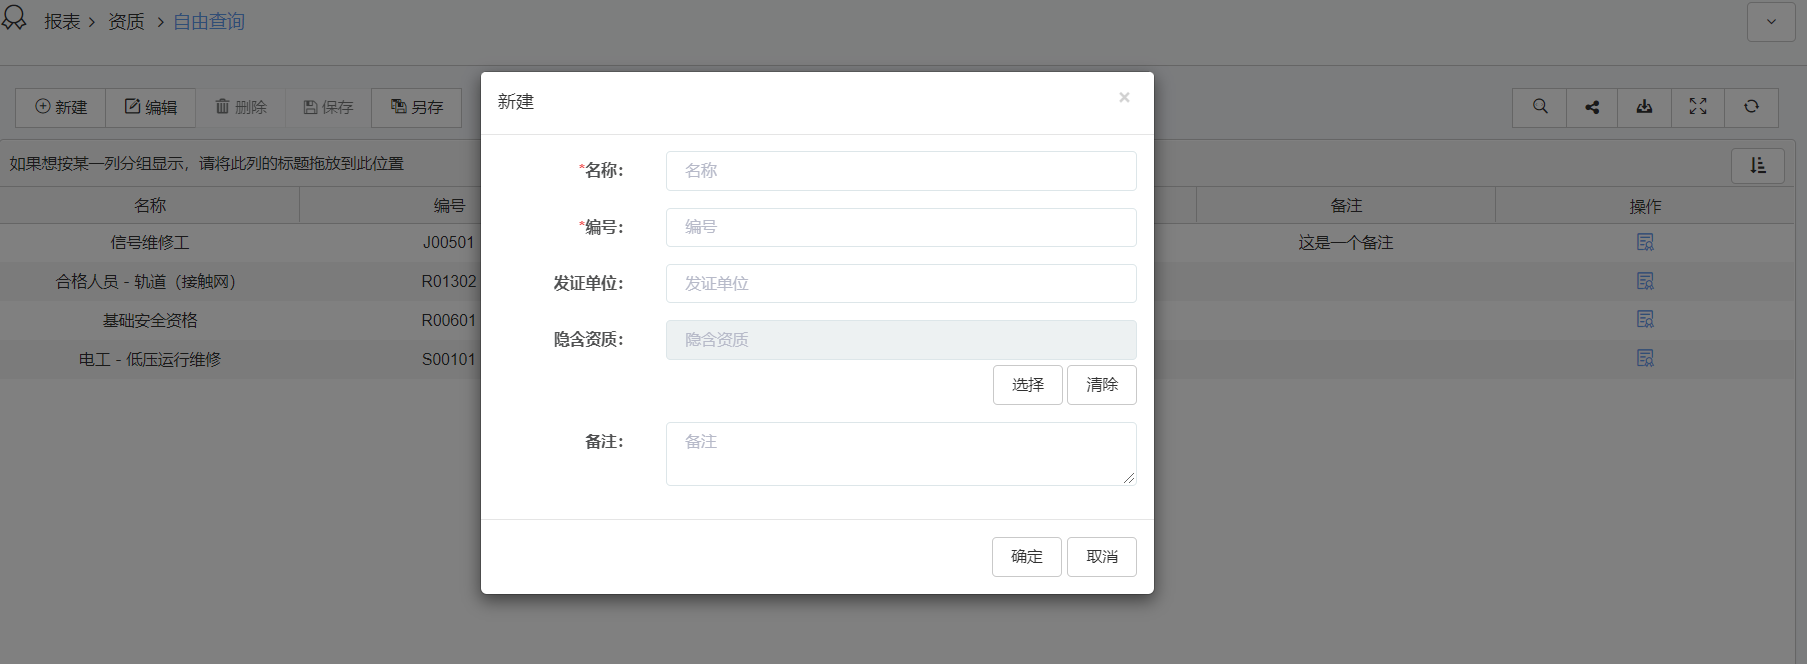
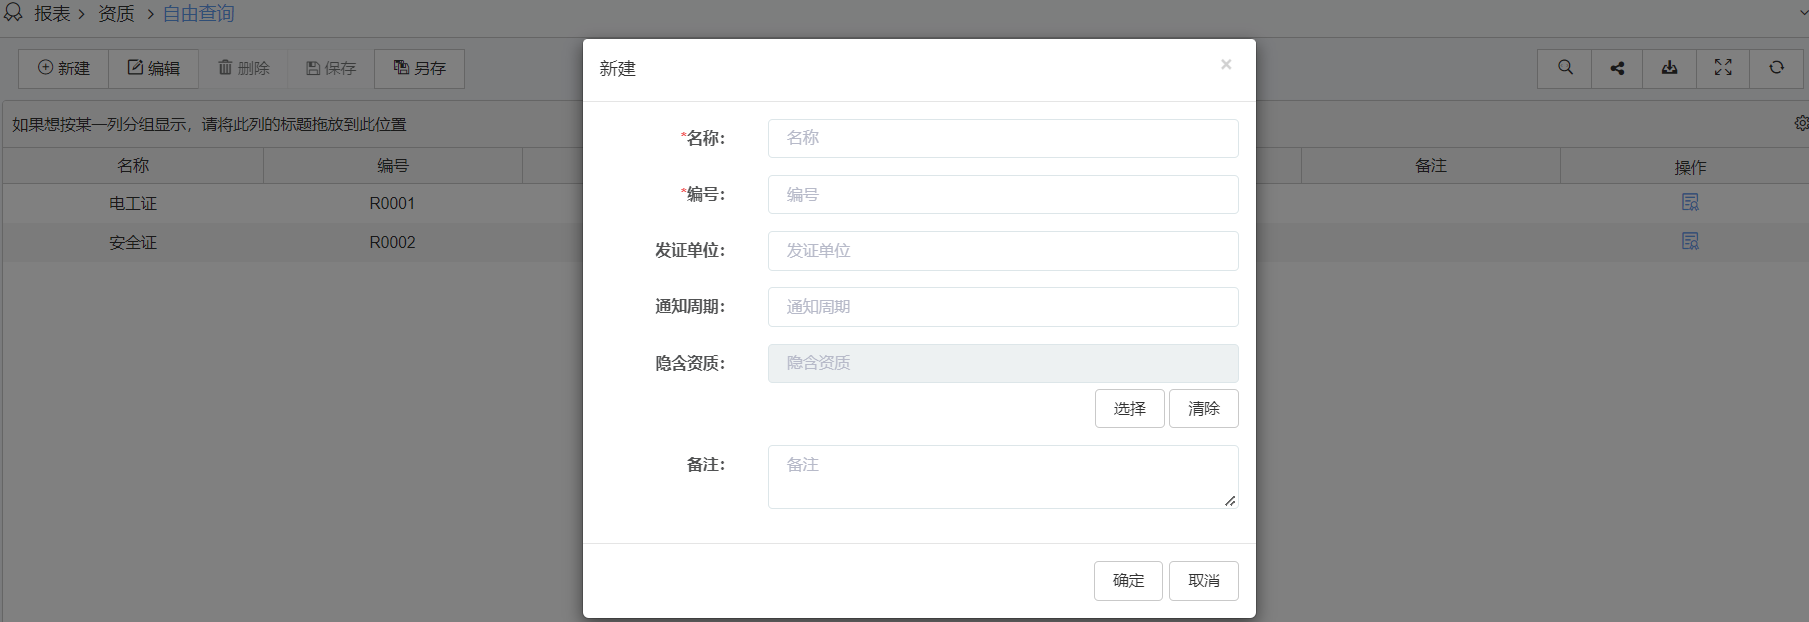
修改4.1.0发布说明

diff --git a/docs/发布说明/4.1.0发布说明.md b/docs/发布说明/4.1.0发布说明.md
@@ -440,6 +440,10 @@ var list = [{
 
   <img alt=" " src={useBaseUrl('docimg/zizhi40452.png')} />
 
+* 同时，在消息类型管理中，也增加了资质过期的消息提醒，默认到期前30天、7天和当天会发送消息。这里为统一管理，如果某项资质需要单独的消息提醒，在新建资质时，有一列为通知周期，设定好值，则该资质会按照通知周期来发送提醒。
+
+  <img alt=" " src={useBaseUrl('docimg/zizhiguoqi4101.png')} />
+
 * 之后，在作业组属性栏中，选择执行该作业组时所需的资质，再选择不满足资质要求即可。
 
   <img alt=" " src={useBaseUrl('docimg/zizhi40453.png')} />
@@ -449,10 +453,6 @@ var list = [{
   <img alt=" " src={useBaseUrl('docimg/zizhi40454.png')} />
 
 * 目前只有用户资质与作业组所需资质有联系，资产和组织单元的资质只是提醒和管理作用。
-
-* 同时，在消息类型管理中，也增加了资质过期的消息提醒，默认到期前30天、7天和当天会发送消息。
-
-  <img alt=" " src={useBaseUrl('docimg/zizhiguoqi4101.png')} />
 
 ### PBIN3492：作业组模板可以设置计划提前创建的时间
 
